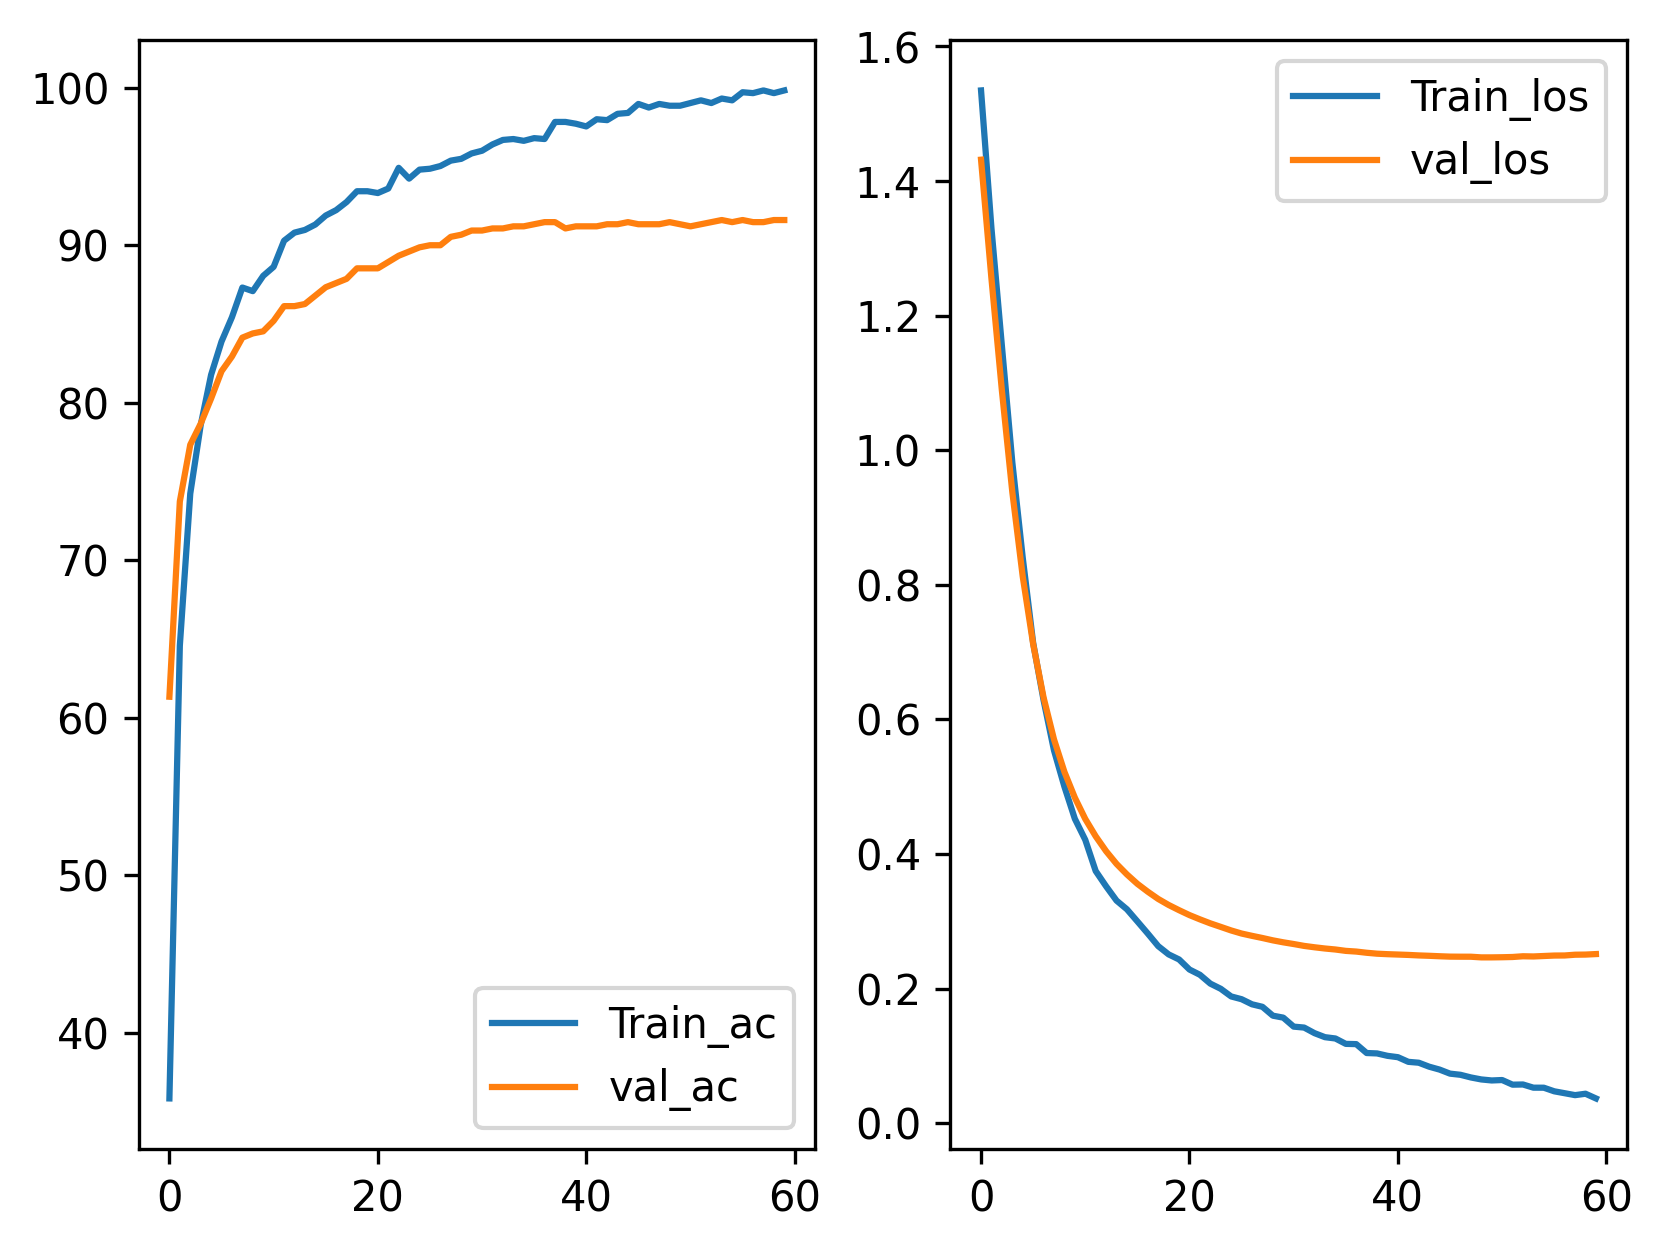
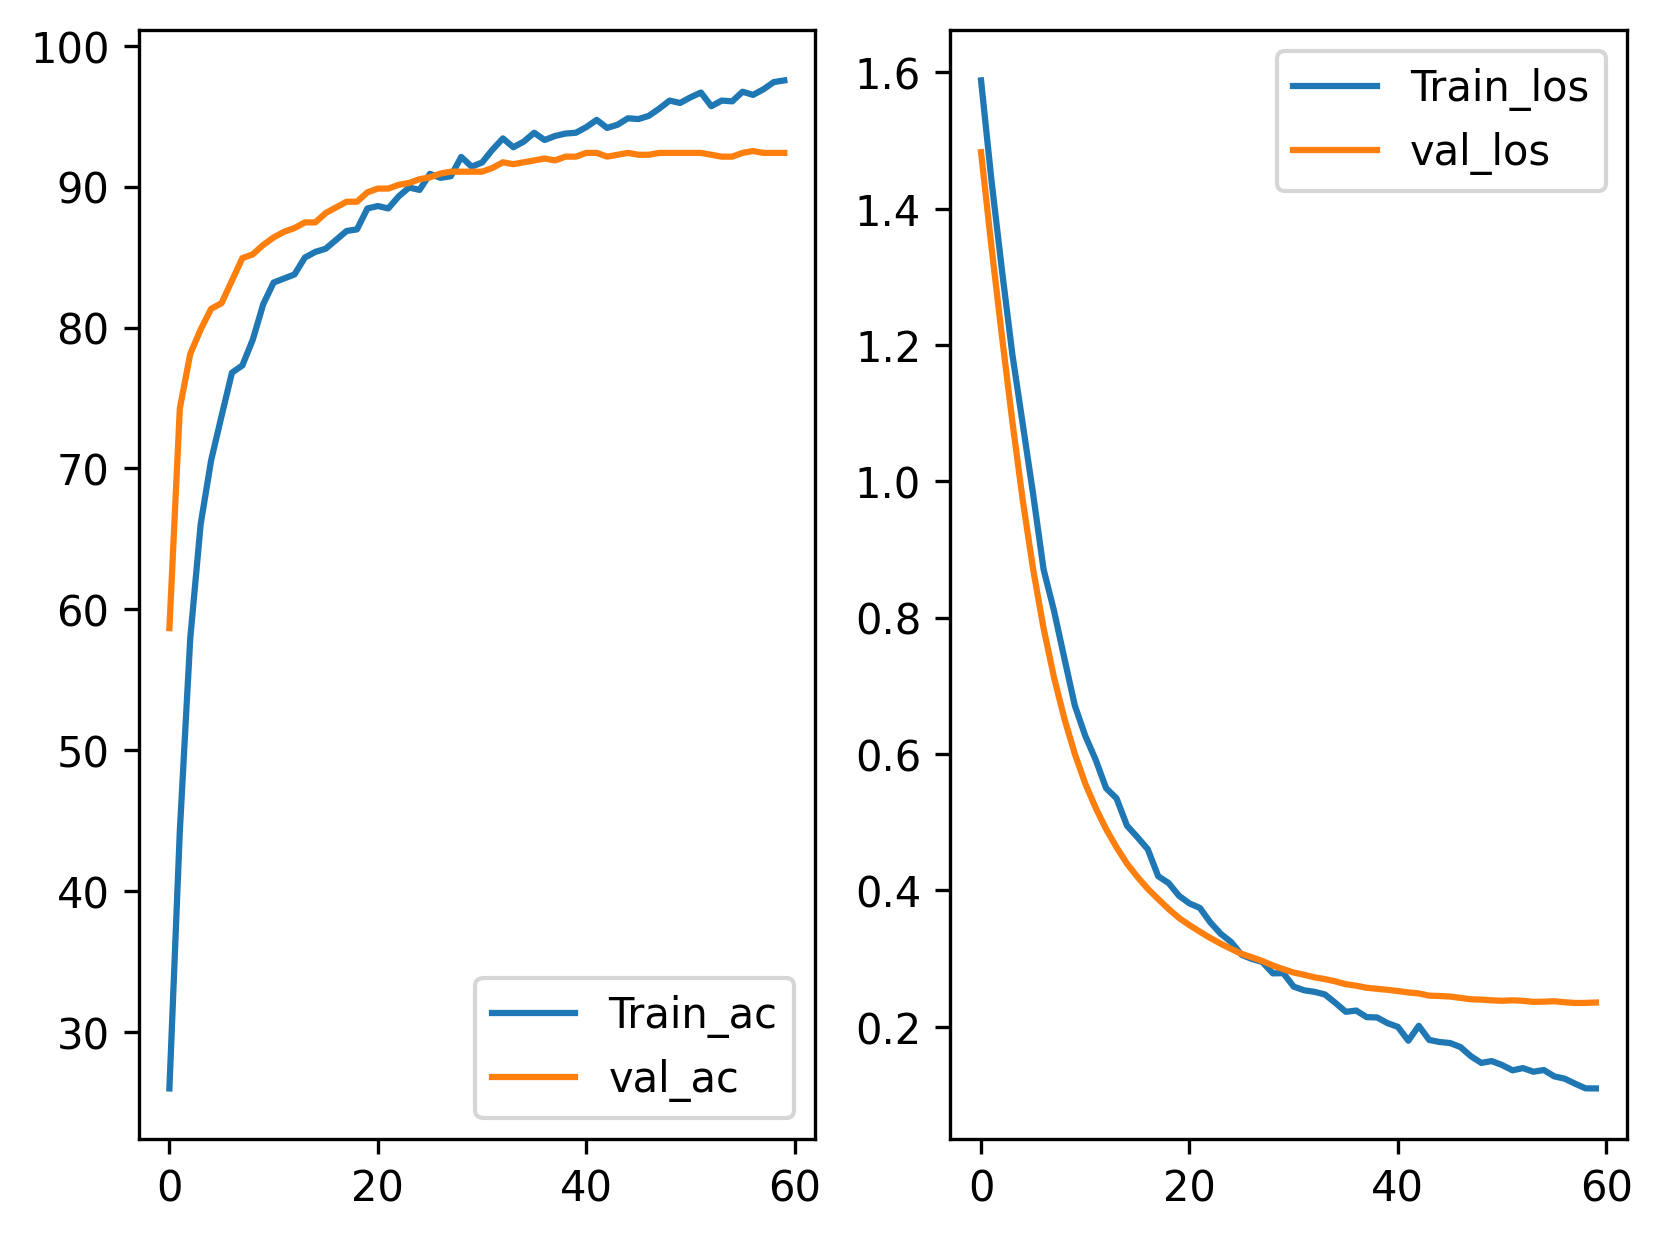
Naming

diff --git a/Models/MobileNet_fusion_v2.py b/Models/MobileNet_fusion_v2.py
@@ -3,9 +3,7 @@ from torch.utils.data import DataLoader, TensorDataset
 from sklearn.linear_model import LogisticRegression
 from sklearn.ensemble import RandomForestClassifier
 from sklearn.model_selection import train_test_split
-from torchvision.transforms.functional import to_pil_image
 import matplotlib.pyplot as plt
-
 from DataLoad import DataLoad
 from tqdm import tqdm
 import numpy as np

diff --git a/Config/config_model1.py b/Config/config_model1.py
@@ -29,7 +29,7 @@ class Config:
         self._valdata_ratio = 0.3
         self._width_transform=32
         self._height_transform=32
-        self._dropout=0.5
+        self._dropout=0.8
 
     def _set_model_parameters(self):
         """Define model-specific parameters."""

diff --git a/Config/config_model3.py b/Config/config_model3.py
@@ -29,7 +29,7 @@ class Config:
         self._valdata_ratio = 0.3
         self._width_transform=32
         self._height_transform=32
-        self._dropout=0.5
+        self._dropout=0.9
 
     def _set_model_parameters(self):
         """Define model-specific parameters."""
